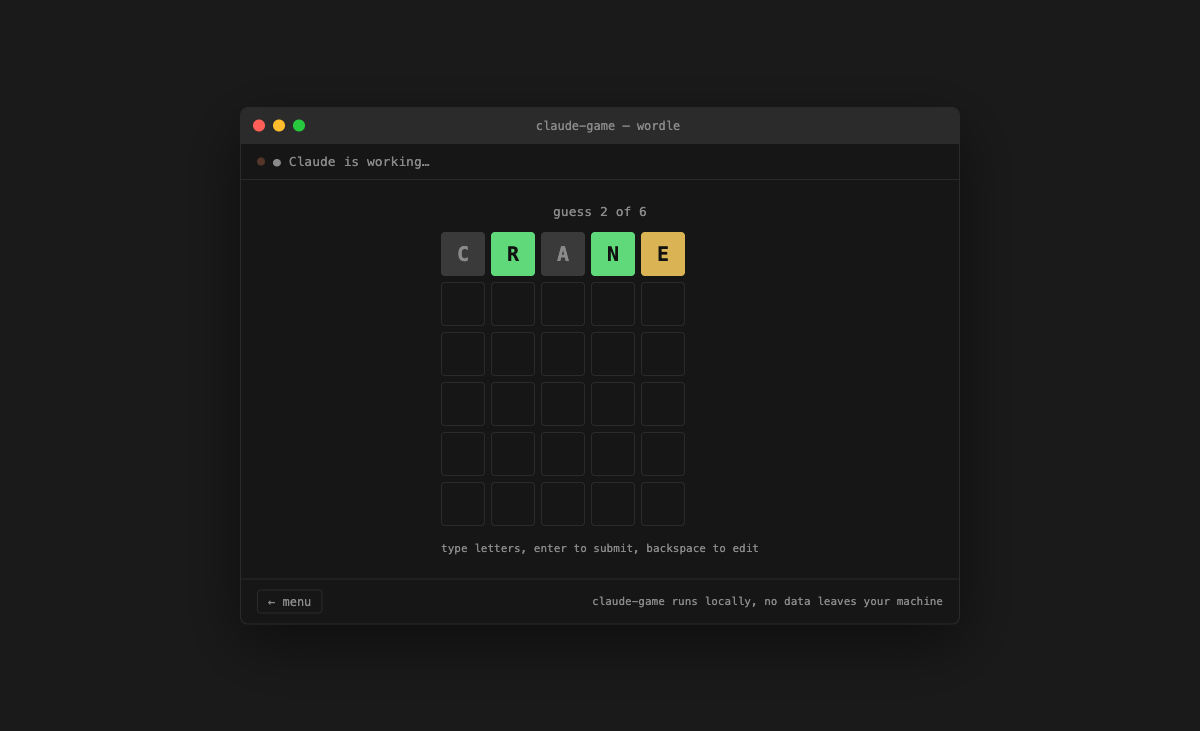
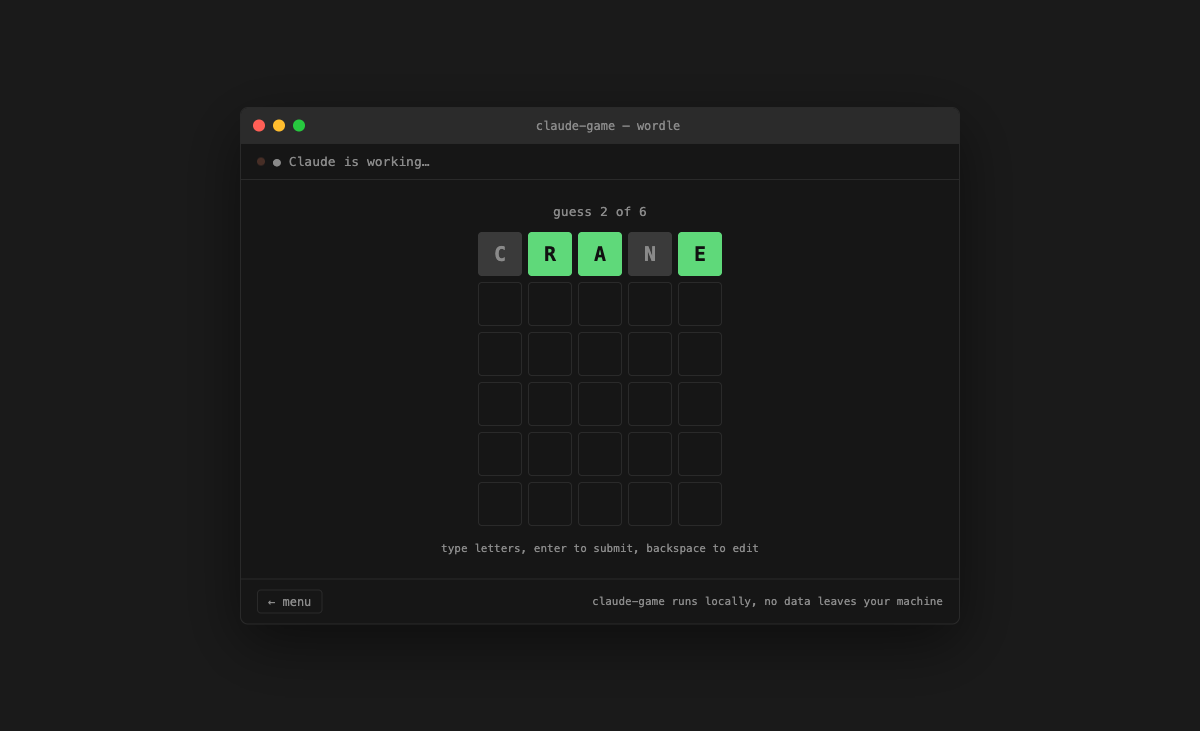
README: rewrite for discoverability, add npx one-liner as primary install
- Lead with the actual hook (Chrome's dinosaur game, but for Claude
  Code) instead of a dry feature list — same audience already knows
  that game, makes the concept instantly clear without explanation.
- npx one-liner front and center as the primary install path; git
  clone kept as the documented alternative for contributors.
- Regenerate docs/screenshot-wordle.png — the old one was taken before
  the grid-centering fix and showed the left-shifted layout.
- Add docs/social-preview.png (1280x640, GitHub's exact recommended
  size) for the repo's social preview card.
- Add repo description + topics via gh for search/discovery.
- Add a Star History chart embed.

Changed region(s): [[0.37, 0.301, 0.6167, 0.3912]]

diff --git a/README.md b/README.md
@@ -1,35 +1,47 @@
 # claude-game
 
-A tiny, dependency-free mini-game that pops up in your browser while
-[Claude Code](https://claude.com/claude-code) is working, styled to look
-like the Claude Code terminal. Play Tic-Tac-Toe, Wordle, or Snake instead
-of watching a spinner — the page tells you the moment Claude's done and
-gets out of the way.
+**You know the dinosaur game you play when your wifi dies? This is that — but for Claude Code.**
 
-> **This is an unofficial, community-built project.** It is not made,
-> maintained, or endorsed by Anthropic. It just talks to Claude Code's
-> public [hooks](https://code.claude.com/docs/en/hooks) system, the same
-> way any other Claude Code hook script would.
+Every time you submit a prompt, a terminal-styled game pops up in your browser: Tic-Tac-Toe, Wordle, or Snake. Play while Claude works. The moment it's done, the game tells you — instead of you nervously alt-tabbing back every four seconds to check.
 
-![claude-game menu](docs/screenshot-menu.png)
-![claude-game playing Wordle while Claude works](docs/screenshot-wordle.png)
+> **Unofficial, community-built.** Not made or endorsed by Anthropic — it just talks to Claude Code's public [hooks](https://code.claude.com/docs/en/hooks) system, same as any other hook script.
+
+```sh
+npx github:hariPrasadCoder/claude-game
+```
+
+No clone, no config, no npm install. Run that, submit your next prompt, and a tab opens.
+
+![claude-game menu — pick Tic-Tac-Toe, Wordle, Snake, or Random](docs/screenshot-menu.png)
+![claude-game playing Wordle while the status bar shows Claude is working](docs/screenshot-wordle.png)
+
+## Why
+
+I kept tabbing away from Claude Code while it worked — Twitter, Slack, back, still working, repeat. So I had it build something to do *instead*: a game that shows up exactly when it starts thinking, and gets out of the way exactly when it's done. Built with Claude Code, running inside Claude Code, actively enabling you to procrastinate on the thing Claude Code is doing for you.
 
 ## Features
 
-- 🎮 Three games — Tic-Tac-Toe (vs. an unbeatable minimax AI), Wordle, and Snake
-- 🟠 Styled to match the Claude Code terminal — dark theme, monospace, terminal chrome
-- 🪶 Zero npm dependencies — plain Node `http` server, vanilla HTML/CSS/JS frontend
-- 🔌 Works from any project — install once, hooks fire globally for every Claude Code session
-- 🤝 Handles multiple concurrent Claude Code sessions safely (status only clears once *all* of them are done)
-- 🔒 Runs entirely on `127.0.0.1` — nothing leaves your machine
-
-## Requirements
-
-- Node.js 18+
-- macOS or Linux (Windows works under WSL or Git Bash — see [Troubleshooting](#troubleshooting))
-- [Claude Code](https://claude.com/claude-code) installed and configured
+- 🦖 **The loading-screen game, for Claude Code.** Tic-Tac-Toe, Wordle, Snake — pick one, or hit Random.
+- 🟠 **Looks like it belongs there.** Dark theme, monospace, terminal chrome — not some random webpage that popped up.
+- 🪶 **Zero dependencies.** Plain Node `http` server, vanilla JS frontend. No npm install, no bundler.
+- 🔌 **Install once, works everywhere.** Fires for every Claude Code session on your machine, any project.
+- 🤝 **Plays nice with multiple sessions.** Two terminals running Claude Code at once? Status only clears once both are actually done.
+- 🔒 **Never leaves your laptop.** Binds to `127.0.0.1`. No accounts, no telemetry, no cloud anything.
 
 ## Install
+
+```sh
+npx github:hariPrasadCoder/claude-game
+```
+
+This is the whole install. Behind the scenes it:
+- Adds `UserPromptSubmit`, `PreToolUse`, `Stop`, and `SessionEnd` hooks to `~/.claude/settings.json`
+- Copies itself to a stable home at `~/.claude-game/app` (so hooks keep working even after npm clears its temp cache — see [How it works](#how-it-works))
+- Backs up your existing `settings.json` first (`settings.json.bak-<timestamp>`)
+- Only ever *adds* to your hooks config — never touches your other settings, plugins, or existing hooks
+- Is safe to re-run any time — it won't create duplicate entries
+
+**Prefer to clone it?** Works the same way, and is the better option if you want to read the code or contribute:
 
 ```sh
 git clone https://github.com/hariPrasadCoder/claude-game.git
@@ -37,62 +49,30 @@ cd claude-game
 node install.js
 ```
 
-`install.js`:
-- Adds `UserPromptSubmit`, `Stop`, and `SessionEnd` hooks to `~/.claude/settings.json`, pointing at wherever you cloned the repo
-- Backs up your existing `settings.json` first (`settings.json.bak-<timestamp>`)
-- Only ever *adds* to your hooks config — it never touches your other settings, plugins, or existing hooks
-- Is safe to re-run — it won't create duplicate entries
-
-That's it. Start a Claude Code session anywhere on your machine and submit a prompt — a browser tab should open automatically.
+**Requirements:** Node.js 18+, macOS or Linux (Windows works under WSL or Git Bash — see [Troubleshooting](#troubleshooting)), and [Claude Code](https://claude.com/claude-code) itself.
 
 ## Usage
 
-Just use Claude Code normally. When you submit a prompt, a tab opens (or an
-existing one gets reused) showing a small terminal-styled menu:
+Just use Claude Code normally. When you submit a prompt, a tab opens (or an existing one gets reused) showing a small terminal-styled menu:
 
 - pick **Tic-Tac-Toe**, **Wordle**, or **Snake**, or hit **🎲 Random**
-- the status line at the top shows `● Claude is working…` while Claude's
-  on your prompt, and flips to `✔ Claude is done` the moment it finishes
-  — without interrupting whatever you're mid-game on
+- the status line up top shows `● Claude is working…` while Claude's on your prompt, and flips to `✔ Claude is done` the moment it finishes — without interrupting whatever you're mid-game on
 - closing the tab is fine; it reopens next time you submit a prompt
 
 ## How it works
 
-- `server.js` is a plain Node `http` server (no dependencies) that serves
-  the game and tracks whether any Claude Code session is currently
-  "working". It listens only on `127.0.0.1:47821`.
-- The `UserPromptSubmit` hook makes sure the server is running (starting
-  it as a detached background process if not) and opens a browser tab
-  unless one already seems to be open (based on a recent heartbeat from
-  the page).
-- The `Stop` hook marks that session as done. **It never kills the
-  server** — instead the server watches its own idle state and shuts
-  itself down once nobody's working *and* no browser tab has sent a
-  heartbeat in ~10 minutes. This means multiple concurrent Claude Code
-  sessions (different terminals/projects) safely share one server without
-  racing to kill it out from under each other — aggregate status only
-  reads "done" once every tracked session has finished.
-- The `PreToolUse` hook (fires before every tool call) re-marks the
-  session "working". This is what keeps status correct when Claude
-  resumes work *without* a fresh `UserPromptSubmit` — e.g. after a
-  background subagent finishes or a scheduled wake-up — cases where
-  `Stop` already fired once (marking the session "done") but Claude is
-  now actively working again. It's a plain backgrounded `curl` rather
-  than a Node script since it fires constantly and needs to add ~nothing
-  to every tool call.
-- The `SessionEnd` hook drops a session from the tracked set entirely
-  when you exit `claude`.
-- Runtime state (pidfile, logs) lives at `~/.claude-game/run/`, outside
-  the repo, so it survives independent of where you cloned it.
+- `server.js` is a plain Node `http` server (no dependencies) that serves the game and tracks whether any Claude Code session is currently "working". It listens only on `127.0.0.1:47821`.
+- `UserPromptSubmit` makes sure the server is running (starting it as a detached background process if not) and opens a browser tab unless one already seems to be open (based on a recent heartbeat from the page).
+- `Stop` marks that session as done. **It never kills the server** — instead the server watches its own idle state and shuts itself down once nobody's working *and* no browser tab has sent a heartbeat in ~10 minutes. Multiple concurrent Claude Code sessions safely share one server without racing to kill it out from under each other — aggregate status only reads "done" once every tracked session has finished.
+- `PreToolUse` (fires before every tool call) re-marks the session "working". This is what keeps status correct when Claude resumes without a fresh `UserPromptSubmit` — e.g. after a background subagent finishes. It's a plain backgrounded `curl` rather than a Node script since it fires constantly and needs to add ~nothing to tool call latency.
+- `SessionEnd` drops a session from the tracked set entirely when you exit `claude`.
+- Runtime state (pidfile, logs) lives at `~/.claude-game/run/`; the app itself (when installed via `npx`) lives at `~/.claude-game/app/` — both outside the repo, so it survives independent of where you cloned it or npm's own cache lifecycle.
 
-See [`install.js`](install.js), [`server.js`](server.js), and the
-[`hooks/`](hooks) directory for the actual implementation — it's short
-and meant to be read.
+See [`install.js`](install.js), [`server.js`](server.js), and [`hooks/`](hooks) for the actual implementation — it's short and meant to be read.
 
 ## Configuration
 
-Everything tunable lives in [`config.js`](config.js) — port, timeouts,
-polling intervals. If you change the port, restart the server:
+Everything tunable lives in [`config.js`](config.js) — port, timeouts, polling intervals. If you change the port, restart the server:
 
 ```sh
 kill "$(cat ~/.claude-game/run/server.pid)"
@@ -103,12 +83,11 @@ It'll be respawned automatically on your next prompt.
 ## Uninstall
 
 ```sh
-node uninstall.js
+node uninstall.js         # from a clone
+npx github:hariPrasadCoder/claude-game uninstall   # via npx
 ```
 
-This removes claude-game's hook entries from `~/.claude/settings.json`
-(backing the file up first) and leaves everything else untouched. To also
-remove runtime state:
+This removes claude-game's hook entries from `~/.claude/settings.json` (backing the file up first) and leaves everything else untouched. To also remove app/runtime state:
 
 ```sh
 rm -rf ~/.claude-game
@@ -117,31 +96,16 @@ rm -rf ~/.claude-game
 ## Troubleshooting
 
 **Nothing happens when I submit a prompt.**
-Check `~/.claude-game/run/server.log` for errors. Confirm the hooks are
-present: `cat ~/.claude/settings.json` should show a `hooks` key with
-entries pointing at this repo's `hooks/` directory. Confirm `node` is on
-your `PATH` — hook subprocesses sometimes inherit a minimal `PATH` that
-doesn't include nvm/homebrew installs (see [`hooks/common-env.sh`](hooks/common-env.sh),
-which tries to work around this).
+Check `~/.claude-game/run/server.log` for errors. Confirm the hooks are present: `cat ~/.claude/settings.json` should show a `hooks` key with entries pointing at `hooks/`. Confirm `node` is on your `PATH` — hook subprocesses sometimes inherit a minimal `PATH` that doesn't include nvm/homebrew installs (see [`hooks/common-env.sh`](hooks/common-env.sh), which tries to work around this).
 
 **Status says "done" but Claude is clearly still working.**
-This happens if Claude resumes work without a fresh `UserPromptSubmit`
-(e.g. after a background subagent finishes). The `PreToolUse` hook
-(`hooks/on-tool-use.sh`) is what re-syncs status the moment any tool
-runs — it needs `curl` on your `PATH`. Check it's installed
-(`command -v curl`) and that `PreToolUse` shows up in
-`~/.claude/settings.json`'s `hooks` key.
+This happens if Claude resumes work without a fresh `UserPromptSubmit` (e.g. after a background subagent finishes). The `PreToolUse` hook (`hooks/on-tool-use.sh`) is what re-syncs status the moment any tool runs — it needs `curl` on your `PATH`. Check it's installed (`command -v curl`).
 
 **Port 47821 is already in use by something else.**
-Change `PORT` in `config.js`, then kill any running instance
-(`kill "$(cat ~/.claude-game/run/server.pid)"`) so it restarts with the
-new port.
+Change `PORT` in `config.js`, then kill any running instance (`kill "$(cat ~/.claude-game/run/server.pid)"`) so it restarts with the new port.
 
 **Windows.**
-The hook scripts are POSIX shell (`hooks/*.sh`) and assume a Unix-like
-environment — they work under WSL or Git Bash, but not plain `cmd.exe`/
-PowerShell today. A native Windows hook dispatcher (`.cmd` or PowerShell)
-would be a welcome contribution — see [CONTRIBUTING.md](CONTRIBUTING.md).
+The hook scripts are POSIX shell (`hooks/*.sh`) — they work under WSL or Git Bash, but not plain `cmd.exe`/PowerShell today. A native Windows hook dispatcher would be a welcome contribution — see [CONTRIBUTING.md](CONTRIBUTING.md).
 
 **I want to see it working without touching real hooks.**
 ```sh
@@ -157,9 +121,13 @@ curl -s http://127.0.0.1:47821/api/status
 
 ## Contributing
 
-Contributions are welcome — new games, a Windows-native hook dispatcher,
-bug fixes, whatever. See [CONTRIBUTING.md](CONTRIBUTING.md) for how the
-project is structured and how to add a game.
+New games, a Windows-native hook dispatcher, bug fixes — all welcome. See [CONTRIBUTING.md](CONTRIBUTING.md) for how the project is structured and how to add a game. It's a small, readable codebase on purpose; if you've ever wanted a low-stakes first PR to make, this is a good one.
+
+## Star History
+
+If this is saving your sanity during a long refactor, a ⭐ helps other people building with Claude Code actually find it.
+
+[![Star History Chart](https://api.star-history.com/svg?repos=hariPrasadCoder/claude-game&type=Date)](https://star-history.com/#hariPrasadCoder/claude-game&Date)
 
 ## License
 
